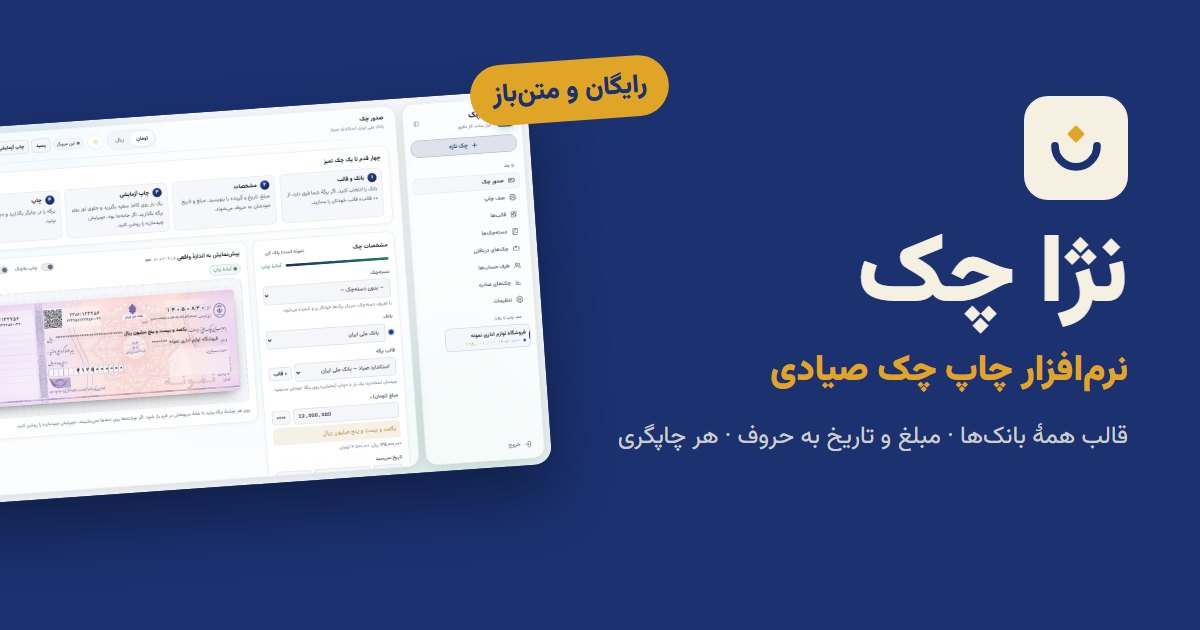
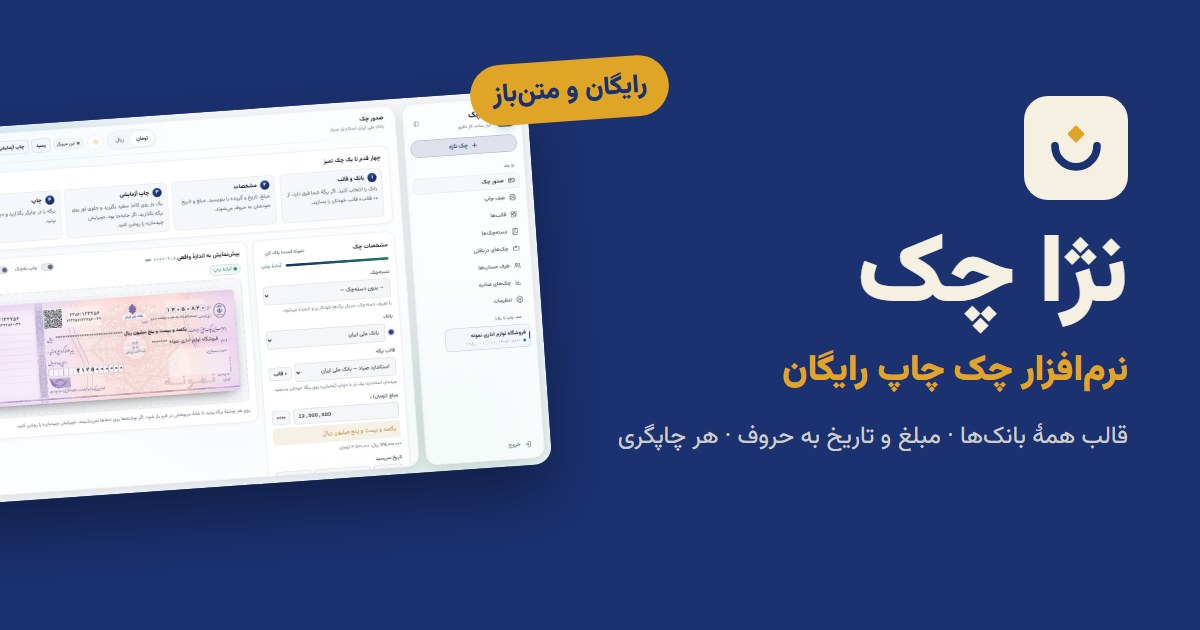
SEO: «چک چاپ» as the main keyword

Changed region(s): [[0.6167, 0.5429, 0.8325, 0.6333]]

diff --git a/docs/chap-check-sayadi/index.html b/docs/chap-check-sayadi/index.html
@@ -3,7 +3,7 @@
 <head>
 <meta charset="utf-8">
 <meta name="viewport" content="width=device-width, initial-scale=1">
-<title>آموزش چاپ چک صیادی با پرینتر معمولی (رایگان، قدمبهقدم)</title>
+<title>آموزش چک چاپ: چاپ چک صیادی با پرینتر معمولی (رایگان، قدمبهقدم)</title>
 <meta name="description" content="آموزش قدمبهقدم چاپ چک صیادی با پرینتر معمولی یا لیزری A4: ابزار رایگان، تنظیم برگه، چاپ آزمایشی، نکتههای امنیتی و ثبت در سامانهٔ صیاد.">
 <link rel="canonical" href="https://arasouli82-dev.github.io/NejaCheque/chap-check-sayadi/">
 <link rel="icon" type="image/svg+xml" href="../favicon.svg">
@@ -11,7 +11,7 @@
 <meta property="og:type" content="website">
 <meta property="og:locale" content="fa_IR">
 <meta property="og:site_name" content="نژا چک">
-<meta property="og:title" content="آموزش چاپ چک صیادی با پرینتر معمولی (رایگان، قدمبهقدم)">
+<meta property="og:title" content="آموزش چک چاپ: چاپ چک صیادی با پرینتر معمولی (رایگان، قدمبهقدم)">
 <meta property="og:description" content="آموزش قدمبهقدم چاپ چک صیادی با پرینتر معمولی یا لیزری A4: ابزار رایگان، تنظیم برگه، چاپ آزمایشی، نکتههای امنیتی و ثبت در سامانهٔ صیاد.">
 <meta property="og:url" content="https://arasouli82-dev.github.io/NejaCheque/chap-check-sayadi/">
 <meta property="og:image" content="https://arasouli82-dev.github.io/NejaCheque/og.jpg">
@@ -22,19 +22,19 @@
 <link rel="stylesheet" href="../assets/site.css">
 <script type="application/ld+json">{"@context": "https://schema.org", "@type": "BreadcrumbList", "itemListElement": [{"@type": "ListItem", "position": 1, "name": "نژا چک", "item": "https://arasouli82-dev.github.io/NejaCheque/"}, {"@type": "ListItem", "position": 2, "name": "آموزش چاپ چک صیادی", "item": "https://arasouli82-dev.github.io/NejaCheque/chap-check-sayadi/"}]}</script>
 <script type="application/ld+json">{"@context": "https://schema.org", "@type": "FAQPage", "mainEntity": [{"@type": "Question", "name": "آیا چاپ چک صیادی با پرینتر قانونی است؟", "acceptedAnswer": {"@type": "Answer", "text": "بله. نوشتن مشخصات چک با چاپگر مجاز است؛ امضا را با دست میزنید و چک را در سامانهٔ صیاد ثبت میکنید."}}, {"@type": "Question", "name": "پرینتر لیزری A4 برای چاپ چک مناسب است؟", "acceptedAnswer": {"@type": "Answer", "text": "بله. برگه را از سینی دستی بدهید یا روی یک A4 بچسبانید. با یک چاپ آزمایشی جای دقیق نوشتهها را تنظیم کنید."}}, {"@type": "Question", "name": "قالب چک کدام بانکها آماده است؟", "acceptedAnswer": {"@type": "Answer", "text": "قالب چک صیادی یکسان برای ۳۰ بانک و مؤسسه، از جمله ملی، ملت، صادرات، تجارت، سپه، پارسیان، پاسارگاد و سامان."}}]}</script>
-<script type="application/ld+json">{"@context": "https://schema.org", "@type": "HowTo", "name": "چاپ چک صیادی با پرینتر معمولی", "description": "آموزش قدمبهقدم چاپ چک صیادی با پرینتر معمولی یا لیزری A4: ابزار رایگان، تنظیم برگه، چاپ آزمایشی، نکتههای امنیتی و ثبت در سامانهٔ صیاد.", "image": "https://arasouli82-dev.github.io/NejaCheque/screenshot.jpg", "totalTime": "PT5M", "tool": [{"@type": "HowToTool", "name": "چاپگر معمولی یا لیزری A4"}, {"@type": "HowToTool", "name": "نرمافزار رایگان نژا چک"}], "step": [{"@type": "HowToStep", "position": 1, "name": "نرمافزار را آماده کنید", "text": "نژا چک را رایگان دانلود و نصب کنید، یا همین حالا نسخهٔ آنلاین آن را در مرورگر باز کنید."}, {"@type": "HowToStep", "position": 2, "name": "بانک را انتخاب کنید", "text": "چکهای صیادی جدید در همهٔ بانکها یک چیدمان دارند. بانک خود را انتخاب کنید تا قالب درست بیاید."}, {"@type": "HowToStep", "position": 3, "name": "مشخصات چک را بنویسید", "text": "مبلغ، تاریخ سررسید و نام گیرنده را وارد کنید. مبلغ و تاریخ خودکار به حروف نوشته میشوند."}, {"@type": "HowToStep", "position": 4, "name": "یک چاپ آزمایشی بگیرید", "text": "روی کاغذ سفید چاپ کنید و جلوی نور روی برگهٔ چک بگذارید. اگر نوشتهها جابهجا بودند، در «ویرایش چیدمان» تنظیمشان کنید."}, {"@type": "HowToStep", "position": 5, "name": "برگه را در چاپگر بگذارید", "text": "برگهٔ چک را از سینی دستی بدهید، یا با چسب کاغذی روی یک A4 بچسبانید. در پنجرهٔ چاپ، Margins را None و Scale را ۱۰۰٪ بگذارید."}, {"@type": "HowToStep", "position": 6, "name": "چک را در سامانهٔ صیاد ثبت کنید", "text": "پس از چاپ و امضا، چک را از اپ یا اینترنتبانک بانک خود در سامانهٔ صیاد ثبت کنید."}]}</script>
+<script type="application/ld+json">{"@context": "https://schema.org", "@type": "HowTo", "name": "چاپ چک صیادی با پرینتر معمولی", "description": "آموزش قدمبهقدم چاپ چک صیادی با پرینتر معمولی یا لیزری A4: ابزار رایگان، تنظیم برگه، چاپ آزمایشی، نکتههای امنیتی و ثبت در سامانهٔ صیاد.", "image": "https://arasouli82-dev.github.io/NejaCheque/screenshot.jpg", "totalTime": "PT5M", "tool": [{"@type": "HowToTool", "name": "چاپگر معمولی یا لیزری A4"}, {"@type": "HowToTool", "name": "نرمافزار رایگان نژا چک"}], "step": [{"@type": "HowToStep", "position": 1, "name": "نرمافزار چک چاپ را آماده کنید", "text": "نژا چک را رایگان دانلود و نصب کنید، یا همین حالا نسخهٔ آنلاین آن را در مرورگر باز کنید."}, {"@type": "HowToStep", "position": 2, "name": "بانک را انتخاب کنید", "text": "چکهای صیادی جدید در همهٔ بانکها یک چیدمان دارند. بانک خود را انتخاب کنید تا قالب درست بیاید."}, {"@type": "HowToStep", "position": 3, "name": "مشخصات چک را بنویسید", "text": "مبلغ، تاریخ سررسید و نام گیرنده را وارد کنید. مبلغ و تاریخ خودکار به حروف نوشته میشوند."}, {"@type": "HowToStep", "position": 4, "name": "یک چاپ آزمایشی بگیرید", "text": "روی کاغذ سفید چاپ کنید و جلوی نور روی برگهٔ چک بگذارید. اگر نوشتهها جابهجا بودند، در «ویرایش چیدمان» تنظیمشان کنید."}, {"@type": "HowToStep", "position": 5, "name": "برگه را در چاپگر بگذارید", "text": "برگهٔ چک را از سینی دستی بدهید، یا با چسب کاغذی روی یک A4 بچسبانید. در پنجرهٔ چاپ، Margins را None و Scale را ۱۰۰٪ بگذارید."}, {"@type": "HowToStep", "position": 6, "name": "چک را در سامانهٔ صیاد ثبت کنید", "text": "پس از چاپ و امضا، چک را از اپ یا اینترنتبانک بانک خود در سامانهٔ صیاد ثبت کنید."}]}</script>
 <script type="application/ld+json">{"@context": "https://schema.org", "@type": "Article", "headline": "آموزش چاپ چک صیادی با پرینتر معمولی", "description": "آموزش قدمبهقدم چاپ چک صیادی با پرینتر معمولی یا لیزری A4: ابزار رایگان، تنظیم برگه، چاپ آزمایشی، نکتههای امنیتی و ثبت در سامانهٔ صیاد.", "image": "https://arasouli82-dev.github.io/NejaCheque/og.jpg", "author": {"@type": "Person", "name": "علی رسولینژاد", "alternateName": "Ali Rasoulinejad", "sameAs": ["https://www.linkedin.com/in/ali-rasoulinejad-bb400b243", "https://github.com/arasouli82-dev"]}, "inLanguage": "fa", "datePublished": "2026-10-12", "dateModified": "2026-10-12", "mainEntityOfPage": "https://arasouli82-dev.github.io/NejaCheque/chap-check-sayadi/"}</script>
 </head>
 <body>
 <header class="wrap top">
   <a class="brand" href="../"><img src="../favicon.svg" alt="">نژا چک</a>
-  <nav><a href="../demo/">امتحان آنلاین</a><a href="../adad-be-horouf/">عدد به حروف</a><a href="../tarikh-be-horouf/">تاریخ به حروف</a><a href="../kod-melli/">کد ملی</a><a href="../chap-check-sayadi/">آموزش</a></nav>
+  <nav><a href="../demo/">چک چاپ آنلاین</a><a href="../adad-be-horouf/">عدد به حروف</a><a href="../tarikh-be-horouf/">تاریخ به حروف</a><a href="../kod-melli/">کد ملی</a><a href="../chap-check-sayadi/">آموزش</a></nav>
 </header>
 <main class="wrap page">
   <div class="crumbs"><a href="../">نژا چک</a> / آموزش چاپ چک صیادی</div>
   <h1>آموزش چاپ چک صیادی با پرینتر معمولی</h1>
-  <p class="lead">برای چاپ چک صیادی به چاپگر مخصوص یا نرمافزار پولی نیاز ندارید. در شش قدم، با همان چاپگر اداره چک تمیز و بیغلط چاپ کنید.</p>
-  <ol class="steps"><li><b>نرمافزار را آماده کنید</b><span>نژا چک را رایگان دانلود و نصب کنید، یا همین حالا نسخهٔ آنلاین آن را در مرورگر باز کنید.</span></li><li><b>بانک را انتخاب کنید</b><span>چکهای صیادی جدید در همهٔ بانکها یک چیدمان دارند. بانک خود را انتخاب کنید تا قالب درست بیاید.</span></li><li><b>مشخصات چک را بنویسید</b><span>مبلغ، تاریخ سررسید و نام گیرنده را وارد کنید. مبلغ و تاریخ خودکار به حروف نوشته میشوند.</span></li><li><b>یک چاپ آزمایشی بگیرید</b><span>روی کاغذ سفید چاپ کنید و جلوی نور روی برگهٔ چک بگذارید. اگر نوشتهها جابهجا بودند، در «ویرایش چیدمان» تنظیمشان کنید.</span></li><li><b>برگه را در چاپگر بگذارید</b><span>برگهٔ چک را از سینی دستی بدهید، یا با چسب کاغذی روی یک A4 بچسبانید. در پنجرهٔ چاپ، Margins را None و Scale را ۱۰۰٪ بگذارید.</span></li><li><b>چک را در سامانهٔ صیاد ثبت کنید</b><span>پس از چاپ و امضا، چک را از اپ یا اینترنتبانک بانک خود در سامانهٔ صیاد ثبت کنید.</span></li></ol>
+  <p class="lead">برای چاپ چک صیادی به چاپگر مخصوص یا نرمافزار چک چاپ پولی نیاز ندارید. در شش قدم، با همان چاپگر اداره چک تمیز و بیغلط چاپ کنید.</p>
+  <ol class="steps"><li><b>نرمافزار چک چاپ را آماده کنید</b><span>نژا چک را رایگان دانلود و نصب کنید، یا همین حالا نسخهٔ آنلاین آن را در مرورگر باز کنید.</span></li><li><b>بانک را انتخاب کنید</b><span>چکهای صیادی جدید در همهٔ بانکها یک چیدمان دارند. بانک خود را انتخاب کنید تا قالب درست بیاید.</span></li><li><b>مشخصات چک را بنویسید</b><span>مبلغ، تاریخ سررسید و نام گیرنده را وارد کنید. مبلغ و تاریخ خودکار به حروف نوشته میشوند.</span></li><li><b>یک چاپ آزمایشی بگیرید</b><span>روی کاغذ سفید چاپ کنید و جلوی نور روی برگهٔ چک بگذارید. اگر نوشتهها جابهجا بودند، در «ویرایش چیدمان» تنظیمشان کنید.</span></li><li><b>برگه را در چاپگر بگذارید</b><span>برگهٔ چک را از سینی دستی بدهید، یا با چسب کاغذی روی یک A4 بچسبانید. در پنجرهٔ چاپ، Margins را None و Scale را ۱۰۰٪ بگذارید.</span></li><li><b>چک را در سامانهٔ صیاد ثبت کنید</b><span>پس از چاپ و امضا، چک را از اپ یا اینترنتبانک بانک خود در سامانهٔ صیاد ثبت کنید.</span></li></ol>
   <div class="article">
     <h2>چرا نوشتن چک با دست یا Word دردسر دارد؟</h2>
     <p>مبلغ به حروف زیاد اشتباه نوشته میشود، خطخوردگی چک را بیاعتبار یا مشکوک میکند، و در Word نوشتهها روی خطهای برگه نمینشینند. یک نرمافزار چاپ چک این سه مشکل را با هم حل میکند: حروف را بیغلط مینویسد و جای هر نوشته را به میلیمتر روی برگه نگه میدارد.</p>
@@ -56,7 +56,7 @@
     </div>
   </div>
   <div class="promo">
-    <div><b>چک را هم خودکار بنویسید</b><p>نژا چک مبلغ و تاریخ را خودش به حروف مینویسد و روی برگهٔ چک صیادی همهٔ بانکها چاپ میکند. رایگان.</p></div>
+    <div><b>نرمافزار چک چاپ رایگان</b><p>نژا چک مبلغ و تاریخ را خودش به حروف مینویسد و روی برگهٔ چک صیادی همهٔ بانکها چاپ میکند. رایگان.</p></div>
     <a class="btn" href="../demo/">امتحان آنلاین</a>
     <a class="btn" href="https://github.com/arasouli82-dev/NejaCheque/releases/latest">دانلود رایگان</a>
   </div>
@@ -65,7 +65,7 @@
 <footer>
   <div class="wrap">
     <span>نژا چک، ساختهٔ <a href="https://www.linkedin.com/in/ali-rasoulinejad-bb400b243">علی رسولینژاد</a> · نژا</span>
-    <span><a href="../adad-be-horouf/">عدد به حروف</a> · <a href="../tarikh-be-horouf/">تاریخ به حروف</a> · <a href="../kod-melli/">بررسی کد ملی</a> · <a href="../chap-check-sayadi/">آموزش چاپ چک</a> · <a href="https://github.com/arasouli82-dev/NejaCheque">گیتهاب</a></span>
+    <span><a href="../adad-be-horouf/">عدد به حروف</a> · <a href="../tarikh-be-horouf/">تاریخ به حروف</a> · <a href="../kod-melli/">بررسی کد ملی</a> · <a href="../chap-check-sayadi/">آموزش چک چاپ</a> · <a href="https://github.com/arasouli82-dev/NejaCheque">گیتهاب</a></span>
   </div>
 </footer>
 <script src="../assets/core.js"></script>

diff --git a/docs/index.html b/docs/index.html
@@ -3,9 +3,9 @@
 <head>
 <meta charset="utf-8">
 <meta name="viewport" content="width=device-width, initial-scale=1">
-<title>نژا چک | نرمافزار رایگان چاپ چک صیادی برای همهٔ بانکها</title>
-<meta name="description" content="نرمافزار رایگان و متنباز چاپ چک صیادی با هر چاپگری. قالب ۳۰ بانک، تبدیل خودکار مبلغ و تاریخ به حروف، دستهچک، چکهای صادره و دریافتی، یادآوری سررسید و پیامک.">
-<meta name="keywords" content="نرم افزار چاپ چک, چاپ چک صیادی, نرم افزار چاپ چک رایگان, چاپ چک با پرینتر, تبدیل مبلغ به حروف, یادآوری سررسید چک, مدیریت چک, چک برگشتی, قالب چک بانک ملت, قالب چک بانک ملی">
+<title>نژا چک | نرمافزار چک چاپ رایگان؛ چاپ چک صیادی همهٔ بانکها</title>
+<meta name="description" content="نژا چک، نرمافزار چک چاپ رایگان و متنباز: چاپ چک صیادی با هر چاپگری. قالب ۳۰ بانک، تبدیل خودکار مبلغ و تاریخ به حروف، دستهچک، چکهای صادره و دریافتی، یادآوری سررسید و پیامک.">
+<meta name="keywords" content="چک چاپ, نرم افزار چک چاپ, چک چاپ رایگان, نرم افزار چاپ چک, چاپ چک صیادی, نرم افزار چاپ چک رایگان, چاپ چک با پرینتر, تبدیل مبلغ به حروف, یادآوری سررسید چک, مدیریت چک, چک برگشتی, قالب چک بانک ملت, قالب چک بانک ملی">
 <meta name="author" content="علی رسولینژاد (نژا)">
 <link rel="canonical" href="https://arasouli82-dev.github.io/NejaCheque/">
 <link rel="icon" type="image/svg+xml" href="favicon.svg">
@@ -13,7 +13,7 @@
 <meta property="og:type" content="website">
 <meta property="og:locale" content="fa_IR">
 <meta property="og:site_name" content="نژا چک">
-<meta property="og:title" content="نژا چک — نرمافزار رایگان چاپ چک صیادی">
+<meta property="og:title" content="نژا چک — نرمافزار چک چاپ رایگان">
 <meta property="og:description" content="قالب همهٔ بانکها، مبلغ و تاریخ به حروف، چاپ با هر چاپگری. رایگان و متنباز.">
 <meta property="og:url" content="https://arasouli82-dev.github.io/NejaCheque/">
 <meta property="og:image" content="https://arasouli82-dev.github.io/NejaCheque/og.jpg">
@@ -29,11 +29,11 @@
   "@context": "https://schema.org",
   "@type": "SoftwareApplication",
   "name": "نژا چک",
-  "alternateName": "Neja Cheque",
+  "alternateName": ["Neja Cheque", "نژا چک چاپ"],
   "applicationCategory": "BusinessApplication",
   "operatingSystem": "Windows, Linux, macOS",
   "offers": {"@type": "Offer", "price": "0", "priceCurrency": "IRR"},
-  "description": "نرمافزار رایگان و متنباز چاپ چک صیادی با هر چاپگری، با قالب ۳۰ بانک و تبدیل خودکار مبلغ و تاریخ به حروف.",
+  "description": "نرمافزار چک چاپ رایگان و متنباز برای چاپ چک صیادی با هر چاپگری، با قالب ۳۰ بانک و تبدیل خودکار مبلغ و تاریخ به حروف.",
   "downloadUrl": "https://github.com/arasouli82-dev/NejaCheque/releases/latest",
   "softwareVersion": "1.0.0",
   "inLanguage": "fa",
@@ -72,8 +72,8 @@
 <main>
   <div class="wrap hero">
     <div>
-      <h1>نرمافزار <em>رایگان</em> چاپ چک صیادی</h1>
-      <p>چک را با همان چاپگر اداره روی برگهٔ واقعی چاپ کنید. مبلغ و تاریخ خودشان به حروف نوشته میشوند، قالب همهٔ بانکها آماده است و سررسید هیچ چکی از یادتان نمیرود.</p>
+      <h1>نرمافزار <em>چک چاپ</em> رایگان</h1>
+      <p>با نژا چک، چک صیادی را با همان چاپگر اداره روی برگهٔ واقعی چاپ کنید. مبلغ و تاریخ خودشان به حروف نوشته میشوند، قالب همهٔ بانکها آماده است و سررسید هیچ چکی از یادتان نمیرود.</p>
       <div class="cta">
         <a class="btn main" href="https://github.com/arasouli82-dev/NejaCheque/releases/latest">دانلود برای ویندوز</a>
         <a class="btn" href="demo/">امتحان آنلاین، بدون نصب</a>
@@ -106,7 +106,7 @@
       <h2>ابزارهای رایگان آنلاین</h2>
       <p>برای وقتی که فقط یک مبلغ یا تاریخ را به حروف میخواهید.</p>
       <div class="toolgrid">
-        <a class="toolcard" href="demo/"><b>چاپ چک آنلاین</b><span>همهٔ امکانات نژا چک در مرورگر، بدون نصب</span></a>
+        <a class="toolcard" href="demo/"><b>چک چاپ آنلاین</b><span>همهٔ امکانات نژا چک در مرورگر، بدون نصب</span></a>
         <a class="toolcard" href="adad-be-horouf/"><b>تبدیل عدد به حروف</b><span>مبلغ چک و قرارداد به حروف فارسی</span></a>
         <a class="toolcard" href="tarikh-be-horouf/"><b>تبدیل تاریخ به حروف</b><span>تاریخ شمسی به حروف، و میلادی به شمسی</span></a>
         <a class="toolcard" href="kod-melli/"><b>بررسی درستی کد ملی</b><span>کد ملی و شناسهٔ ملی شرکتها</span></a>

diff --git a/docs/tarikh-be-horouf/index.html b/docs/tarikh-be-horouf/index.html
@@ -27,7 +27,7 @@
 <body>
 <header class="wrap top">
   <a class="brand" href="../"><img src="../favicon.svg" alt="">نژا چک</a>
-  <nav><a href="../demo/">امتحان آنلاین</a><a href="../adad-be-horouf/">عدد به حروف</a><a href="../tarikh-be-horouf/">تاریخ به حروف</a><a href="../kod-melli/">کد ملی</a><a href="../chap-check-sayadi/">آموزش</a></nav>
+  <nav><a href="../demo/">چک چاپ آنلاین</a><a href="../adad-be-horouf/">عدد به حروف</a><a href="../tarikh-be-horouf/">تاریخ به حروف</a><a href="../kod-melli/">کد ملی</a><a href="../chap-check-sayadi/">آموزش</a></nav>
 </header>
 <main class="wrap page">
   <div class="crumbs"><a href="../">نژا چک</a> / تبدیل تاریخ به حروف</div>
@@ -45,7 +45,7 @@
     <div class="out small" id="gx"></div>
   </div>
   <div class="promo">
-    <div><b>چک را هم خودکار بنویسید</b><p>نژا چک مبلغ و تاریخ را خودش به حروف مینویسد و روی برگهٔ چک صیادی همهٔ بانکها چاپ میکند. رایگان.</p></div>
+    <div><b>نرمافزار چک چاپ رایگان</b><p>نژا چک مبلغ و تاریخ را خودش به حروف مینویسد و روی برگهٔ چک صیادی همهٔ بانکها چاپ میکند. رایگان.</p></div>
     <a class="btn" href="../demo/">امتحان آنلاین</a>
     <a class="btn" href="https://github.com/arasouli82-dev/NejaCheque/releases/latest">دانلود رایگان</a>
   </div>
@@ -54,7 +54,7 @@
 <footer>
   <div class="wrap">
     <span>نژا چک، ساختهٔ <a href="https://www.linkedin.com/in/ali-rasoulinejad-bb400b243">علی رسولینژاد</a> · نژا</span>
-    <span><a href="../adad-be-horouf/">عدد به حروف</a> · <a href="../tarikh-be-horouf/">تاریخ به حروف</a> · <a href="../kod-melli/">بررسی کد ملی</a> · <a href="../chap-check-sayadi/">آموزش چاپ چک</a> · <a href="https://github.com/arasouli82-dev/NejaCheque">گیتهاب</a></span>
+    <span><a href="../adad-be-horouf/">عدد به حروف</a> · <a href="../tarikh-be-horouf/">تاریخ به حروف</a> · <a href="../kod-melli/">بررسی کد ملی</a> · <a href="../chap-check-sayadi/">آموزش چک چاپ</a> · <a href="https://github.com/arasouli82-dev/NejaCheque">گیتهاب</a></span>
   </div>
 </footer>
 <script src="../assets/core.js"></script>

diff --git a/docs/kod-melli/index.html b/docs/kod-melli/index.html
@@ -27,7 +27,7 @@
 <body>
 <header class="wrap top">
   <a class="brand" href="../"><img src="../favicon.svg" alt="">نژا چک</a>
-  <nav><a href="../demo/">امتحان آنلاین</a><a href="../adad-be-horouf/">عدد به حروف</a><a href="../tarikh-be-horouf/">تاریخ به حروف</a><a href="../kod-melli/">کد ملی</a><a href="../chap-check-sayadi/">آموزش</a></nav>
+  <nav><a href="../demo/">چک چاپ آنلاین</a><a href="../adad-be-horouf/">عدد به حروف</a><a href="../tarikh-be-horouf/">تاریخ به حروف</a><a href="../kod-melli/">کد ملی</a><a href="../chap-check-sayadi/">آموزش</a></nav>
 </header>
 <main class="wrap page">
   <div class="crumbs"><a href="../">نژا چک</a> / بررسی کد ملی</div>
@@ -39,7 +39,7 @@
     <div class="out" id="r" aria-live="polite"></div>
   </div>
   <div class="promo">
-    <div><b>چک را هم خودکار بنویسید</b><p>نژا چک مبلغ و تاریخ را خودش به حروف مینویسد و روی برگهٔ چک صیادی همهٔ بانکها چاپ میکند. رایگان.</p></div>
+    <div><b>نرمافزار چک چاپ رایگان</b><p>نژا چک مبلغ و تاریخ را خودش به حروف مینویسد و روی برگهٔ چک صیادی همهٔ بانکها چاپ میکند. رایگان.</p></div>
     <a class="btn" href="../demo/">امتحان آنلاین</a>
     <a class="btn" href="https://github.com/arasouli82-dev/NejaCheque/releases/latest">دانلود رایگان</a>
   </div>
@@ -48,7 +48,7 @@
 <footer>
   <div class="wrap">
     <span>نژا چک، ساختهٔ <a href="https://www.linkedin.com/in/ali-rasoulinejad-bb400b243">علی رسولینژاد</a> · نژا</span>
-    <span><a href="../adad-be-horouf/">عدد به حروف</a> · <a href="../tarikh-be-horouf/">تاریخ به حروف</a> · <a href="../kod-melli/">بررسی کد ملی</a> · <a href="../chap-check-sayadi/">آموزش چاپ چک</a> · <a href="https://github.com/arasouli82-dev/NejaCheque">گیتهاب</a></span>
+    <span><a href="../adad-be-horouf/">عدد به حروف</a> · <a href="../tarikh-be-horouf/">تاریخ به حروف</a> · <a href="../kod-melli/">بررسی کد ملی</a> · <a href="../chap-check-sayadi/">آموزش چک چاپ</a> · <a href="https://github.com/arasouli82-dev/NejaCheque">گیتهاب</a></span>
   </div>
 </footer>
 <script src="../assets/core.js"></script>

diff --git a/docs/adad-be-horouf/index.html b/docs/adad-be-horouf/index.html
@@ -27,7 +27,7 @@
 <body>
 <header class="wrap top">
   <a class="brand" href="../"><img src="../favicon.svg" alt="">نژا چک</a>
-  <nav><a href="../demo/">امتحان آنلاین</a><a href="../adad-be-horouf/">عدد به حروف</a><a href="../tarikh-be-horouf/">تاریخ به حروف</a><a href="../kod-melli/">کد ملی</a><a href="../chap-check-sayadi/">آموزش</a></nav>
+  <nav><a href="../demo/">چک چاپ آنلاین</a><a href="../adad-be-horouf/">عدد به حروف</a><a href="../tarikh-be-horouf/">تاریخ به حروف</a><a href="../kod-melli/">کد ملی</a><a href="../chap-check-sayadi/">آموزش</a></nav>
 </header>
 <main class="wrap page">
   <div class="crumbs"><a href="../">نژا چک</a> / تبدیل عدد به حروف</div>
@@ -43,7 +43,7 @@
     <div class="out small" id="x"></div>
   </div>
   <div class="promo">
-    <div><b>چک را هم خودکار بنویسید</b><p>نژا چک مبلغ و تاریخ را خودش به حروف مینویسد و روی برگهٔ چک صیادی همهٔ بانکها چاپ میکند. رایگان.</p></div>
+    <div><b>نرمافزار چک چاپ رایگان</b><p>نژا چک مبلغ و تاریخ را خودش به حروف مینویسد و روی برگهٔ چک صیادی همهٔ بانکها چاپ میکند. رایگان.</p></div>
     <a class="btn" href="../demo/">امتحان آنلاین</a>
     <a class="btn" href="https://github.com/arasouli82-dev/NejaCheque/releases/latest">دانلود رایگان</a>
   </div>
@@ -52,7 +52,7 @@
 <footer>
   <div class="wrap">
     <span>نژا چک، ساختهٔ <a href="https://www.linkedin.com/in/ali-rasoulinejad-bb400b243">علی رسولینژاد</a> · نژا</span>
-    <span><a href="../adad-be-horouf/">عدد به حروف</a> · <a href="../tarikh-be-horouf/">تاریخ به حروف</a> · <a href="../kod-melli/">بررسی کد ملی</a> · <a href="../chap-check-sayadi/">آموزش چاپ چک</a> · <a href="https://github.com/arasouli82-dev/NejaCheque">گیتهاب</a></span>
+    <span><a href="../adad-be-horouf/">عدد به حروف</a> · <a href="../tarikh-be-horouf/">تاریخ به حروف</a> · <a href="../kod-melli/">بررسی کد ملی</a> · <a href="../chap-check-sayadi/">آموزش چک چاپ</a> · <a href="https://github.com/arasouli82-dev/NejaCheque">گیتهاب</a></span>
   </div>
 </footer>
 <script src="../assets/core.js"></script>

diff --git a/docs/og-src.html b/docs/og-src.html
@@ -19,7 +19,7 @@
   <div class="text">
     <div class="logo"><svg viewBox="0 0 120 120" width="84" height="84"><path d="M30 57 A30 30 0 0 0 90 57" fill="none" stroke="#1B3170" stroke-width="11" stroke-linecap="round"/><rect x="51" y="31" width="18" height="18" rx="2" fill="#E0A526" transform="rotate(45 60 40)"/></svg></div>
     <h1>نژا چک</h1>
-    <h2>نرمافزار چاپ چک صیادی</h2>
+    <h2>نرمافزار چک چاپ رایگان</h2>
     <p>قالب همهٔ بانکها · مبلغ و تاریخ به حروف · هر چاپگری</p>
   </div>
 </body></html>

diff --git a/tools/build_site.py b/tools/build_site.py
@@ -19,7 +19,7 @@ DOCS = Path(__file__).resolve().parent.parent / "docs"
 AUTHOR = {"@type": "Person", "name": "علی رسولینژاد", "alternateName": "Ali Rasoulinejad",
           "sameAs": ["https://www.linkedin.com/in/ali-rasoulinejad-bb400b243", "https://github.com/arasouli82-dev"]}
 
-NAV = [("demo/", "امتحان آنلاین"), ("adad-be-horouf/", "عدد به حروف"), ("tarikh-be-horouf/", "تاریخ به حروف"),
+NAV = [("demo/", "چک چاپ آنلاین"), ("adad-be-horouf/", "عدد به حروف"), ("tarikh-be-horouf/", "تاریخ به حروف"),
        ("kod-melli/", "کد ملی"), ("chap-check-sayadi/", "آموزش")]
 
 
@@ -71,7 +71,7 @@ def page(slug: str, title: str, description: str, h1: str, lead: str, body: str,
   <p class="lead">{lead}</p>
   {body}
   <div class="promo">
-    <div><b>چک را هم خودکار بنویسید</b><p>نژا چک مبلغ و تاریخ را خودش به حروف مینویسد و روی برگهٔ چک صیادی همهٔ بانکها چاپ میکند. رایگان.</p></div>
+    <div><b>نرمافزار چک چاپ رایگان</b><p>نژا چک مبلغ و تاریخ را خودش به حروف مینویسد و روی برگهٔ چک صیادی همهٔ بانکها چاپ میکند. رایگان.</p></div>
     <a class="btn" href="../demo/">امتحان آنلاین</a>
     <a class="btn" href="{DOWNLOAD}">دانلود رایگان</a>
   </div>
@@ -80,7 +80,7 @@ def page(slug: str, title: str, description: str, h1: str, lead: str, body: str,
 <footer>
   <div class="wrap">
     <span>نژا چک، ساختهٔ <a href="https://www.linkedin.com/in/ali-rasoulinejad-bb400b243">علی رسولینژاد</a> · نژا</span>
-    <span><a href="../adad-be-horouf/">عدد به حروف</a> · <a href="../tarikh-be-horouf/">تاریخ به حروف</a> · <a href="../kod-melli/">بررسی کد ملی</a> · <a href="../chap-check-sayadi/">آموزش چاپ چک</a> · <a href="{REPO}">گیتهاب</a></span>
+    <span><a href="../adad-be-horouf/">عدد به حروف</a> · <a href="../tarikh-be-horouf/">تاریخ به حروف</a> · <a href="../kod-melli/">بررسی کد ملی</a> · <a href="../chap-check-sayadi/">آموزش چک چاپ</a> · <a href="{REPO}">گیتهاب</a></span>
   </div>
 </footer>
 <script src="../assets/core.js"></script>
@@ -210,7 +210,7 @@ c.addEventListener("input", run);''',
 # ---------------------------------------------------------------- guide
 d = "آموزش قدمبهقدم چاپ چک صیادی با پرینتر معمولی یا لیزری A4: ابزار رایگان، تنظیم برگه، چاپ آزمایشی، نکتههای امنیتی و ثبت در سامانهٔ صیاد."
 steps = [
-    ("نرمافزار را آماده کنید", "نژا چک را رایگان دانلود و نصب کنید، یا همین حالا نسخهٔ آنلاین آن را در مرورگر باز کنید."),
+    ("نرمافزار چک چاپ را آماده کنید", "نژا چک را رایگان دانلود و نصب کنید، یا همین حالا نسخهٔ آنلاین آن را در مرورگر باز کنید."),
     ("بانک را انتخاب کنید", "چکهای صیادی جدید در همهٔ بانکها یک چیدمان دارند. بانک خود را انتخاب کنید تا قالب درست بیاید."),
     ("مشخصات چک را بنویسید", "مبلغ، تاریخ سررسید و نام گیرنده را وارد کنید. مبلغ و تاریخ خودکار به حروف نوشته میشوند."),
     ("یک چاپ آزمایشی بگیرید", "روی کاغذ سفید چاپ کنید و جلوی نور روی برگهٔ چک بگذارید. اگر نوشتهها جابهجا بودند، در «ویرایش چیدمان» تنظیمشان کنید."),
@@ -226,8 +226,8 @@ article = {"@context": "https://schema.org", "@type": "Article", "headline": "آ
            "mainEntityOfPage": SITE + "chap-check-sayadi/"}
 steps_html = "".join(f"<li><b>{n}</b><span>{t}</span></li>" for n, t in steps)
 PAGES["chap-check-sayadi/"] = page(
-    "chap-check-sayadi/", "آموزش چاپ چک صیادی با پرینتر معمولی (رایگان، قدمبهقدم)", d,
-    "آموزش چاپ چک صیادی با پرینتر معمولی", "برای چاپ چک صیادی به چاپگر مخصوص یا نرمافزار پولی نیاز ندارید. در شش قدم، با همان چاپگر اداره چک تمیز و بیغلط چاپ کنید.",
+    "chap-check-sayadi/", "آموزش چک چاپ: چاپ چک صیادی با پرینتر معمولی (رایگان، قدمبهقدم)", d,
+    "آموزش چاپ چک صیادی با پرینتر معمولی", "برای چاپ چک صیادی به چاپگر مخصوص یا نرمافزار چک چاپ پولی نیاز ندارید. در شش قدم، با همان چاپگر اداره چک تمیز و بیغلط چاپ کنید.",
     f'''<ol class="steps">{steps_html}</ol>
   <div class="article">
     <h2>چرا نوشتن چک با دست یا Word دردسر دارد؟</h2>

diff --git a/tools/build_pages.py b/tools/build_pages.py
@@ -26,12 +26,12 @@ def main(out: Path) -> None:
         ('window.CHEQUE_CONFIG = {standalone: true, product: "نژا چک", serverName: "نژا چک", loginUrl: "/login"};',
          f'window.CHEQUE_CONFIG = {{standalone: false, demo: true, product: "نژا چک", serverName: "نژا چک", downloadUrl: "{DOWNLOAD}"}};'),
         ("<title>نژا چک</title>",
-         "<title>چاپ چک آنلاین رایگان | نژا چک</title>\n"
+         "<title>چک چاپ آنلاین رایگان | نژا چک</title>\n"
          f'<link rel="canonical" href="{SITE}demo/">\n'
          f'<meta property="og:image" content="{SITE}og.jpg">\n'
-         '<meta property="og:title" content="چاپ چک آنلاین رایگان | نژا چک">'),
+         '<meta property="og:title" content="چک چاپ آنلاین رایگان | نژا چک">'),
         ('<meta name="description" content="نژا چک: صدور، چاپ و پیگیری چکهای صیادی — ساختهٔ علی رسولینژاد">',
-         '<meta name="description" content="چاپ چک صیادی آنلاین و رایگان در مرورگر، بدون نصب: قالب همهٔ بانکها، مبلغ و تاریخ به حروف، چاپ با هر پرینتری.">'),
+         '<meta name="description" content="چک چاپ آنلاین و رایگان: چاپ چک صیادی در مرورگر، بدون نصب؛ قالب همهٔ بانکها، مبلغ و تاریخ به حروف، چاپ با هر پرینتری.">'),
     ]
     for old, new in replacements:
         if old not in html:

diff --git a/README.md b/README.md
@@ -6,7 +6,7 @@
 
 # نژا چک
 
-**نرمافزار رایگان چاپ چک صیادی** — ساختهٔ [علی رسولینژاد](https://www.linkedin.com/in/ali-rasoulinejad-bb400b243) · نژا
+**نرمافزار چک چاپ رایگان؛ چاپ چک صیادی همهٔ بانکها** — ساختهٔ [علی رسولینژاد](https://www.linkedin.com/in/ali-rasoulinejad-bb400b243) · نژا
 
 [**⬇ دانلود برای ویندوز**](https://github.com/arasouli82-dev/NejaCheque/releases/latest) · [وبسایت](https://arasouli82-dev.github.io/NejaCheque/)
 
